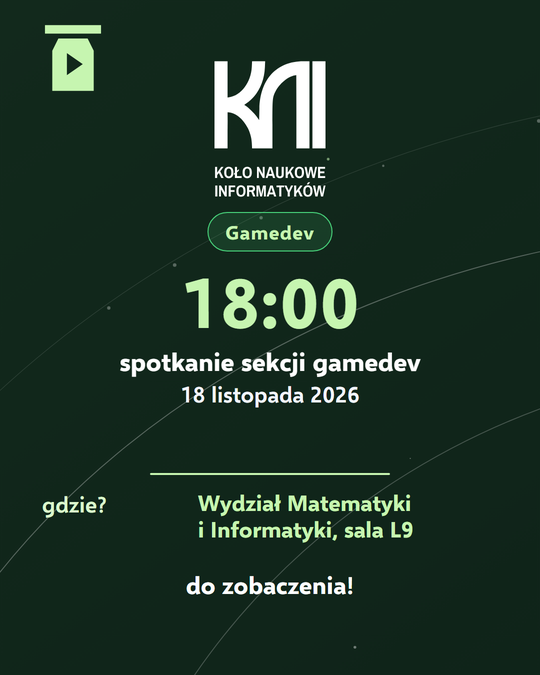
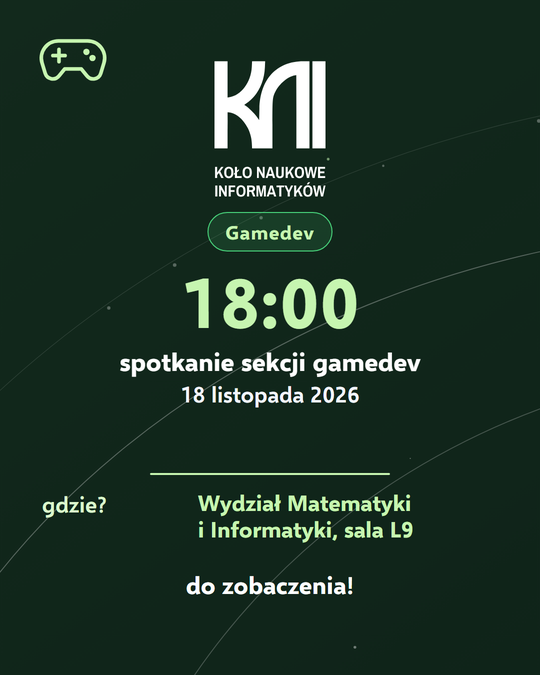
Gamedev: domyslna ikona gamepada

Changed region(s): [[0.0593, 0.0311, 0.2074, 0.1556]]

diff --git a/src/posts/post-sekcja-gamedev/post-sekcja-gamedev-template.post.ts b/src/posts/post-sekcja-gamedev/post-sekcja-gamedev-template.post.ts
@@ -40,7 +40,7 @@ Wstęp wolny, nie trzeba się zapisywać.
     locationLabel: "gdzie?",
     locationValue: "Wydział Matematyki\ni Informatyki, sala L9",
     footer: "do zobaczenia!",
-    icon: "kni-gamedev",
+    icon: "kni-gamepad",
     theme: "gamedev"
   };
 }
